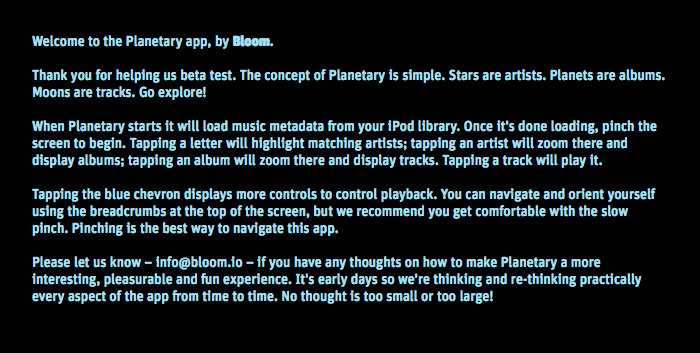
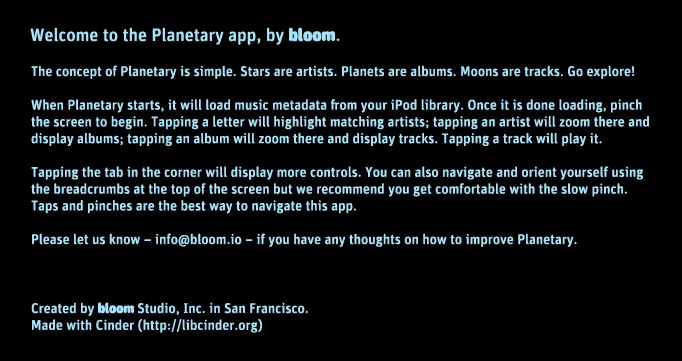
graphical tweaks

diff --git a/src/KeplerApp.cpp b/src/KeplerApp.cpp
@@ -7,6 +7,7 @@
 #include "cinder/Arcball.h"
 #include "cinder/ImageIo.h"
 #include "cinder/Rand.h"
+#include "cinder/Utilities.h"
 #include "Globals.h"
 #include "Easing.h"
 #include "World.h"
@@ -142,6 +143,7 @@ class KeplerApp : public AppCocoaTouch {
 	Font			mFontBig;
 	Font			mFontMediSmall;
 	Font			mFontUltraSmall;	
+	Font			mFontMediTiny;
 	
 // MULTITOUCH
 	Vec2f			mTouchPos;
@@ -281,6 +283,7 @@ void KeplerApp::remainingSetup()
 	mFontBig			= Font( loadResource( "UnitRoundedOT-Ultra.otf" ), 256 );
 	mFontMediSmall		= Font( loadResource( "UnitRoundedOT-Medi.otf" ), 13 );
 	mFontUltraSmall		= Font( loadResource( "UnitRoundedOT-Ultra.otf" ), 14 );
+	mFontMediTiny		= Font( loadResource( "UnitRoundedOT-Medi.otf" ), 12 );
 	
 	// TOUCH VARS
 	mTouchPos			= Vec2f::zero();
@@ -447,16 +450,32 @@ void KeplerApp::touchesEnded( TouchEvent event )
 	const vector<TouchEvent::Touch> touches = event.getTouches();
 	if( touches.size() == 1 && timeSincePinchEnded > 0.2f ){        
         Vec2f currentPos = touches.begin()->getPos();
-        Vec2f prevPos = touches.begin()->getPrevPos();        
+        Vec2f prevPos = touches.begin()->getPrevPos();   
         if (positionTouchesWorld(currentPos) && positionTouchesWorld(prevPos)) {
             mTouchPos = currentPos;
-            // if the nav wheel isnt showing and you havent been dragging and your touch is above the uiLayer panel
-            if( ! mAlphaWheel.getShowWheel() && ! mIsDragging && mTouchPos.y < mUiLayer.getPanelYPos() ){
+            // if the nav wheel isnt showing and you havent been dragging
+			// and your touch is above the uiLayer panel and the Help panel isnt showing
+            if( ! mAlphaWheel.getShowWheel() && ! mIsDragging && !G_HELP ){
                 float u			= mTouchPos.x / (float) getWindowWidth();
                 float v			= mTouchPos.y / (float) getWindowHeight();
+
                 Ray touchRay	= mCam.generateRay( u, 1.0f - v, mCam.getAspectRatio() );
                 checkForNodeTouch( touchRay, mMatrix, mTouchPos );
-            } else {
+            } else if( G_HELP ){
+				
+				Rectf mailButton( 193.0f, 280.0f, 288.0f, 300.0f );
+				Rectf cinderButton( 180.0f, 365.0f, 306.0f, 386.0f );
+				
+				if( mailButton.contains( mTouchPos ) ){
+					Url mailtoLink( "mailto:planetary@bloom.io?subject=Planetary feedback" );
+					launchWebBrowser( mailtoLink );
+				} else if( cinderButton.contains( mTouchPos ) ){
+					Url cinderWebsite( "http://libcinder.org" );
+					launchWebBrowser( cinderWebsite );
+				}
+				
+				
+			} else {
                 Flurry::getInstrumentation()->logEvent("Camera Moved");
             }
         }
@@ -1134,7 +1153,7 @@ void KeplerApp::drawScene()
 	mAlphaWheel.draw( mData.mWheelDataVerts, mData.mWheelDataTexCoords, mData.mWheelDataColors );
     mUiLayer.draw( mUiButtonsTex );
     mBreadcrumbs.draw( mUiButtonsTex );
-    mPlayControls.draw( mUiButtonsTex, mCurrentTrackTex, mFontMediSmall, mUiLayer.getPanelYPos(), mCurrentTrackPlayheadTime, mCurrentTrackLength );
+    mPlayControls.draw( mUiButtonsTex, mCurrentTrackTex, mFontMediTiny, mUiLayer.getPanelYPos(), mCurrentTrackPlayheadTime, mCurrentTrackLength );
 	
     // TODO: plans for this state.draw? currently an empty method
 	//mState.draw( mFont );

diff --git a/src/NodeArtist.cpp b/src/NodeArtist.cpp
@@ -63,18 +63,15 @@ void NodeArtist::update( const Matrix44f &mat )
 void NodeArtist::drawEclipseGlow()
 {
 	if( mIsHighlighted && mDistFromCamZAxisPer > 0.0f ){
-        float zoomOffset    = math<float>::max( G_ARTIST_LEVEL - G_ZOOM, 0.0f );
-		
         float alpha         = mDistFromCamZAxisPer;
         gl::color( ColorA( mGlowColor, alpha * mEclipseStrength ) );
-
-		/*
-		 // if in alpha view, make highlighted artists flicker
-        float flickerAmt = ( 8.5f + zoomOffset * Rand::randFloat( 12.0f, 15.0f ) );
-		Vec2f radius = Vec2f( mRadius, mRadius ) * flickerAmt;
-        */
-		
-		Vec2f radius = Vec2f( mRadius, mRadius ) * ( mEclipseStrength + 1.0f ) * 25.25f;
+		Vec2f radius = Vec2f( mRadius, mRadius ) * ( mEclipseStrength + 1.0f ) * 22.0f;
+		gl::drawBillboard( mTransPos, radius, 0.0f, mBbRight, mBbUp );
+	}
+	
+	if( G_IS_IPAD2 && mIsHighlighted ){
+        gl::color( ColorA( mGlowColor, mDistFromCamZAxisPer ) );
+		Vec2f radius = Vec2f( mRadius, mRadius ) * 7.5f;
 		gl::drawBillboard( mTransPos, radius, 0.0f, mBbRight, mBbUp );
 	}
 	 
@@ -164,7 +161,6 @@ void NodeArtist::setData( PlaylistRef playlist )
 	mPlaylist = playlist;
 	
 	string name		= getName();
-	char c0			= ' ';
 	char c1			= ' ';
 	char c2			= ' ';
 	if( name.length() >= 3 ){
@@ -177,8 +173,8 @@ void NodeArtist::setData( PlaylistRef playlist )
 	int totalCharAscii = c1Int + c2Int;
 	float asciiPer = ( (float)totalCharAscii/( ( 127.0f ) * 2.0f ) ) * 125.0f ;
 	
-	mHue			= sin( asciiPer ) * 0.3f + 0.3f;
-	std::cout << name << "'s hue = " << mHue << std::endl;
+	mHue			= sin( asciiPer ) * 0.3f + 0.33f;
+
 	mSat			= 1.0f - sin( mHue * M_PI );
 	mColor			= Color( CM_HSV, mHue, mSat * 0.5f, 1.0f );
 	mGlowColor		= Color( CM_HSV, mHue, mSat * 0.5f + 0.5f, 1.0f );

diff --git a/src/NodeTrack.cpp b/src/NodeTrack.cpp
@@ -47,16 +47,31 @@ void NodeTrack::setData( TrackRef track, PlaylistRef album )
 
 	
 	
+	string name		= getName();
+	char c1			= ' ';
+	if( name.length() >= 3 ){
+		c1 = name[1];
+	}
+	
+	int c1Int = constrain( int(c1), 32, 127 );
+	
+	mAsciiPer = ( c1Int - 32 )/( 127.0f - 32 );
+	
+	
+	
+	
 	//normalize playcount data
 	float playCountDelta	= ( mParentNode->mHighestPlayCount - mParentNode->mLowestPlayCount ) + 1.0f;
 	float normPlayCount		= ( mPlayCount - mParentNode->mLowestPlayCount )/playCountDelta;
 
 // ALBUM ART
-	Surface albumArt	= mTrack->getArtwork( Vec2i( 128, 128 ) );
+	Surface albumArt		= mTrack->getArtwork( Vec2i( 128, 128 ) );
 	if( albumArt ){
 		int x				= (int)(normPlayCount*100);
-		int y				= mPlayCount%64;
-		Area a				= Area( x, y, x+1, y+normPlayCount*64 );
+		int y				= c1Int%64;
+		int w				= 1;
+		int h				= normPlayCount * 64;
+		Area a				= Area( x, y, x+w, y+h );
 		Surface crop		= albumArt.clone( a );
 		mAlbumArt			= gl::Texture( crop );
 		mHasAlbumArt		= true;
@@ -90,15 +105,6 @@ void NodeTrack::setData( TrackRef track, PlaylistRef album )
 
 	mOrbitPath.clear();
 	
-	string name		= getName();
-	char c1			= ' ';
-	if( name.length() >= 3 ){
-		c1 = name[1];
-	}
-	
-	int c1Int = constrain( int(c1), 32, 127 );
-	
-	mAsciiPer = ( c1Int - 32 )/( 127.0f - 32 );
 	mHue				= mAsciiPer;
 	mSat				= ( 1.0f - sin( mHue * M_PI ) ) * 0.1f + 0.15f;
 	mColor				= Color( CM_HSV, mHue, mSat * 0.5f, 1.0f );

diff --git a/src/PlayControls.cpp b/src/PlayControls.cpp
@@ -125,7 +125,9 @@ bool PlayControls::orientationChanged( OrientationEvent event )
 }
 
 void PlayControls::draw( const gl::Texture &uiButtonsTex, const gl::Texture &currentTrackTex, const Font &font, float y, float currentTime, float totalTime )
-{    
+{   
+	float dragAlphaPer = pow( ( mInterfaceSize.y - y ) / 65.0f, 2.0f );
+	
     gl::pushModelView();
     gl::multModelView( mOrientationMtx );    
     
@@ -237,7 +239,7 @@ void PlayControls::draw( const gl::Texture &uiButtonsTex, const gl::Texture &cur
     touchRects.push_back( drawTextButton );
     touchTypes.push_back( DRAW_TEXT );
 	
-	gl::color( Color::white() );
+	gl::color( ColorA( 1.0f, 1.0f, 1.0f, dragAlphaPer ) );
     uiButtonsTex.enableAndBind();
 	gl::enableAlphaBlending();
 	
@@ -395,8 +397,8 @@ void PlayControls::draw( const gl::Texture &uiButtonsTex, const gl::Texture &cur
         layout2.addLine( ss.str() );
         mRemainingTimeTex = layout2.render( true, false );
     }
-    gl::draw( mCurrentTimeTex,   Vec2f( bgx1 - 40.0f, bgy1 + 1 ) );
-    gl::draw( mRemainingTimeTex, Vec2f( bgx2 + 8.0f, bgy1 + 1 ) );
+    gl::draw( mCurrentTimeTex,   Vec2f( bgx1 - 40.0f, bgy1 + 2 ) );
+    gl::draw( mRemainingTimeTex, Vec2f( bgx2 + 8.0f, bgy1 + 2 ) );
     
     gl::popModelView();
 	

diff --git a/src/UiLayer.cpp b/src/UiLayer.cpp
@@ -11,6 +11,7 @@
 #include "UiLayer.h"
 #include "CinderFlurry.h"
 #include "BloomGl.h"
+#include "Globals.h"
 
 using namespace pollen::flurry;
 using namespace ci;
@@ -205,12 +206,17 @@ void UiLayer::draw( const gl::Texture &uiButtonsTex )
 	gl::color( ColorA( 1.0f, 1.0f, 1.0f, 1.0f ) );
 	uiButtonsTex.enableAndBind();
     drawButton( mPanelRect, 0.41f, 0.9f, 0.49f, 0.99f );
-
+	uiButtonsTex.disable();
+	
+	gl::color( ColorA( COLOR_BRIGHT_BLUE, 0.125f ) );
+	gl::drawLine( Vec2f( mPanelRect.x1, mPanelRect.y1 ), Vec2f( mPanelRect.x2, mPanelRect.y1 ) );
+	gl::color( ColorA( 1.0f, 1.0f, 1.0f, 1.0f ) );
+	
+	
 	float u1 = 0.5f;
 	float u2 = 1.0f;
 	float v1, v2;
 	
-    float uw = 1.0f/8.0f;
     if( mIsPanelTabTouched ){
 		v1 = 0.5f;
 		v2 = 0.69f;	// HA MGUNK!!!
@@ -218,9 +224,11 @@ void UiLayer::draw( const gl::Texture &uiButtonsTex )
 		v1 = 0.5f;
 		v2 = 0.69f;
 	}
+	uiButtonsTex.enableAndBind();
 	drawButton( mPanelTabRect, u1, v1, u2, v2 );
 	
     uiButtonsTex.disable();
         
+	
     gl::popModelView();    
 }

diff --git a/src/Breadcrumbs.cpp b/src/Breadcrumbs.cpp
@@ -110,9 +110,9 @@ void Breadcrumbs::draw( const gl::Texture &uiButtonsTex )
 {
     float width = app::getWindowWidth();
     float height = app::getWindowHeight();
-    float rectHeight = 24.0f;
+    float rectHeight = 26.0f;
     Rectf breadcrumbRect( 0.0f, rectHeight, width, 0.0f );
-    //float lineY = 25.0f;
+    float lineY = 27.0f;
     float buttonY	= 5.0f;
     
     Matrix44f orientationMtx;
@@ -146,10 +146,10 @@ void Breadcrumbs::draw( const gl::Texture &uiButtonsTex )
 	uiButtonsTex.enableAndBind();
 	drawButton( breadcrumbRect, 0.41f, 0.9f, 0.49f, 1.0f );
 	uiButtonsTex.disable();
+
 	
-	
-	//gl::color( ColorA( Color::white(), 0.1f ) );
-	//gl::drawLine( Vec2f( 1.0f, lineY ), Vec2f( breadcrumbRect.x2, lineY ) );
+	gl::color( ColorA( COLOR_BRIGHT_BLUE, 0.1f ) );
+	gl::drawLine( Vec2f( 1.0f, lineY ), Vec2f( breadcrumbRect.x2, lineY ) );
     
 
 	gl::color( Color::white() );

diff --git a/src/World.cpp b/src/World.cpp
@@ -310,7 +310,7 @@ void World::buildStarsVertexArray( const Vec3f &bbRight, const Vec3f &bbUp )
 	for( vector<Node*>::iterator it = mNodes.begin(); it != mNodes.end(); ++it ){
 		Vec3f pos				= (*it)->mPos;
 		float radius			= (*it)->mRadius * 0.5f;
-		if( (*it)->mIsHighlighted ) radius += math<float>::max( G_ARTIST_LEVEL - G_ZOOM, 0.0f ) * 2.0f;
+		if( (*it)->mIsHighlighted ) radius += math<float>::max( G_ARTIST_LEVEL - G_ZOOM, 0.0f );
 		
 		ColorA col				= ColorA( (*it)->mColor, 1.0f );
 		
@@ -495,7 +495,7 @@ void World::buildStarGlowsVertexArray( const Vec3f &bbRight, const Vec3f &bbUp )
 			
 			float glowAlpha			= 1.0f;
 			
-			if( !(*it)->mIsSelected ){
+			if( !(*it)->mIsSelected && !(*it)->mIsPlaying ){
 				glowAlpha = zoomOffset;
 			}
 			   
